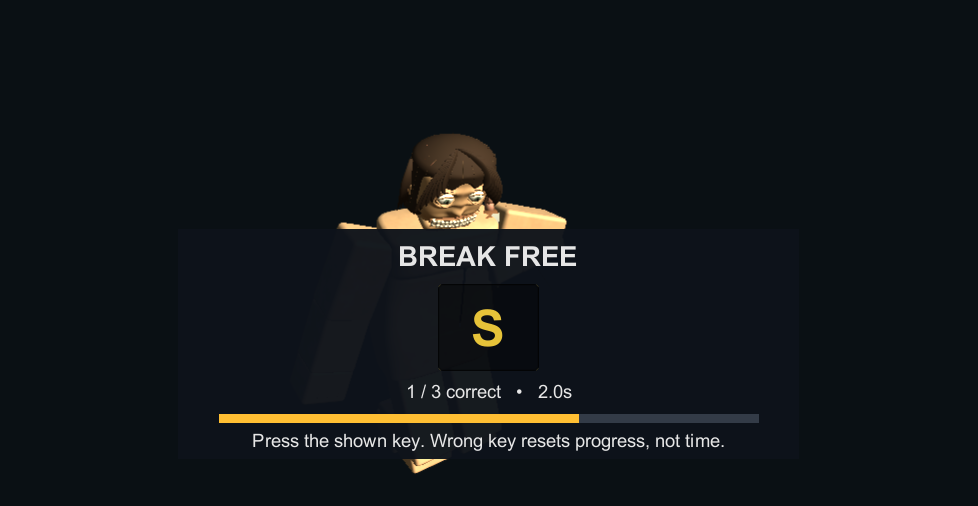
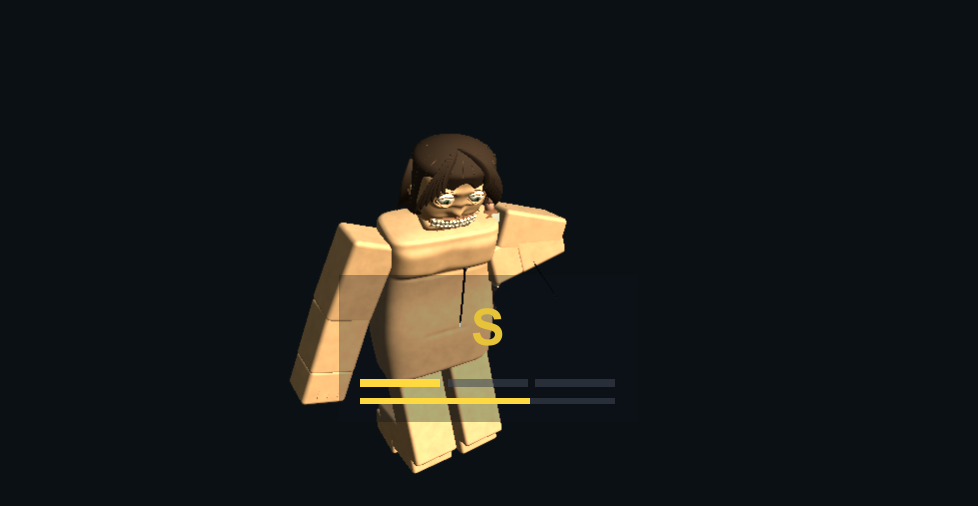
Simplify grab escape HUD to key and progress bars with translucent background

Changed region(s): [[0.2147, 0.4447, 0.7975, 0.919]]

diff --git a/Assets/Titan/Prototype/TitanGrabEscape.cs b/Assets/Titan/Prototype/TitanGrabEscape.cs
@@ -21,7 +21,7 @@ public sealed class TitanGrabEscape : MonoBehaviour
     TitanGrabAttack attacker;
     int previousButtons, blockedButtons, startFrame;
     float age, startedAt, resultAt, wrongAt = -10;
-    GUIStyle titleStyle, keyStyle, textStyle;
+    GUIStyle keyStyle;
     public TitanGrabEscapeState State { get; private set; }
     public int Progress { get; private set; }
     public int WrongPresses { get; private set; }
@@ -107,34 +107,23 @@ public sealed class TitanGrabEscape : MonoBehaviour
     {
         if(!showHud || target.IsDead || State==TitanGrabEscapeState.Idle || State==TitanGrabEscapeState.Cancelled)return;
         if(State!=TitanGrabEscapeState.Running && !target.IsHeld && !target.ReleasePending && Time.time-resultAt>1.2f)return;
-        if(titleStyle==null)
-        {
-            titleStyle=new GUIStyle(GUI.skin.label){fontSize=24,alignment=TextAnchor.MiddleCenter,fontStyle=FontStyle.Bold};
-            keyStyle=new GUIStyle(titleStyle){fontSize=44};textStyle=new GUIStyle(titleStyle){fontSize=16,fontStyle=FontStyle.Normal};
-        }
+        if(keyStyle==null)keyStyle=new GUIStyle(GUI.skin.label){fontSize=44,alignment=TextAnchor.MiddleCenter,fontStyle=FontStyle.Bold};
         var oldMatrix=GUI.matrix;var oldColor=GUI.color;
         float scale=Mathf.Min(1.4f,Mathf.Min(Screen.width/600f,Screen.height/440f));
         GUI.matrix=Matrix4x4.TRS(new Vector3(Screen.width*.5f,Screen.height*.68f,0),Quaternion.identity,Vector3.one*scale);
-        GUI.color=new Color(.05f,.07f,.1f,.96f);GUI.DrawTexture(new Rect(-270,-100,540,200),Texture2D.whiteTexture);
-        GUI.color=Color.white;
-        if(State==TitanGrabEscapeState.Running)
+        GUI.color=new Color(.05f,.07f,.1f,.32f);GUI.DrawTexture(new Rect(-130,-60,260,128),Texture2D.whiteTexture);
+        bool running=State==TitanGrabEscapeState.Running;
+        Color accent=State==TitanGrabEscapeState.Succeeded?new Color(.4f,1,.6f):
+            (!running || Time.time-wrongAt<.35f?new Color(1,.4f,.35f):new Color(1,.85f,.25f));
+        GUI.color=accent;
+        if(running)GUI.Label(new Rect(-40,-50,80,70),CurrentKey.ToString(),keyStyle);
+        for(int i=0;i<RequiredPresses;i++)
         {
-            GUI.Label(new Rect(-260,-94,520,36),"BREAK FREE",titleStyle);
-            GUI.color=Time.time-wrongAt<.35f?new Color(1,.4f,.35f):new Color(1,.85f,.25f);
-            GUI.Box(new Rect(-44,-52,88,76),GUIContent.none);GUI.Label(new Rect(-44,-52,88,76),CurrentKey.ToString(),keyStyle);
-            GUI.color=Color.white;
-            GUI.Label(new Rect(-260,26,520,30),Progress+" / 3 correct   •   "+Remaining.ToString("F1")+"s",textStyle);
-            GUI.color=new Color(.2f,.23f,.28f);GUI.DrawTexture(new Rect(-235,61,470,8),Texture2D.whiteTexture);
-            GUI.color=new Color(1,.75f,.2f);GUI.DrawTexture(new Rect(-235,61,470*Remaining/Window,8),Texture2D.whiteTexture);
-            GUI.color=Color.white;GUI.Label(new Rect(-260,72,520,24),Time.time-wrongAt<.35f?"Wrong key — progress reset!":"Press the shown key. Wrong key resets progress, not time.",textStyle);
+            GUI.color=i<Progress?accent:new Color(.25f,.28f,.33f,.55f);
+            GUI.DrawTexture(new Rect(-112+i*76,30,70,7),Texture2D.whiteTexture);
         }
-        else
-        {
-            bool success=State==TitanGrabEscapeState.Succeeded;
-            GUI.color=success?new Color(.4f,1,.6f):new Color(1,.4f,.35f);
-            GUI.Label(new Rect(-260,-45,520,45),success?"ESCAPED!":"TOO SLOW!",titleStyle);
-            GUI.color=Color.white;GUI.Label(new Rect(-260,3,520,40),success?(target.ReleasePending?"Bite cancelled — waiting for a clear exit…":"Jump away! 1 second of re-grab protection."):"The Titan is bringing you to its mouth…",textStyle);
-        }
+        GUI.color=new Color(.25f,.28f,.33f,.55f);GUI.DrawTexture(new Rect(-112,47,222,5),Texture2D.whiteTexture);
+        GUI.color=accent;GUI.DrawTexture(new Rect(-112,47,222*Remaining/Window,5),Texture2D.whiteTexture);
         GUI.color=oldColor;GUI.matrix=oldMatrix;
     }
 }

diff --git a/Assets/Tests/TitanPrototype/PlayMode/TitanODMIntegrationPlayModeTests.cs b/Assets/Tests/TitanPrototype/PlayMode/TitanODMIntegrationPlayModeTests.cs
@@ -768,7 +768,7 @@ public class TitanODMIntegrationPlayModeTests
         for(int i=0;i<120 && !System.IO.File.Exists(path);i++)yield return null;
         Assert.That(System.IO.File.Exists(path),Is.True,"No actual completed-frame HUD screenshot");
         var image=new Texture2D(2,2);image.LoadImage(System.IO.File.ReadAllBytes(path));
-        Assert.That(image.GetPixels32().Count(c=>(c.r>170 && c.g>150 && c.b<120)||(c.g>170 && c.r<160 && c.b<190)),Is.GreaterThan(20),"Actual gold prompt/progress or green outcome pixels must render");
+        Assert.That(image.GetPixels32().Count(c=>(c.r>170 && c.g>150 && c.b<120)||(c.g>170 && c.r<160 && c.b<190)||(c.r>170 && c.g<140 && c.b<140)),Is.GreaterThan(20),"Actual gold prompt/time, red reset or green progress pixels must render");
         Object.Destroy(image);
     }
     [UnityTest] public IEnumerator ChompCanRenderRealScoutRagdollAndBloodInOwnedGraphicsPreview()

diff --git a/docs/titan-grab-escape.md b/docs/titan-grab-escape.md
@@ -28,9 +28,11 @@ safe jump-away and one-second re-grab protection; explicitly chose **3 seconds**
   Damage/death remain exclusively real PlayerHealth ownership. No delayed kill
   timer, forced death, resurrected HP or post-escape asynchronous bite callback.
 
-HUD: dark high-contrast center-lower panel, large current key, progress count,
-remaining seconds and shrinking gold bar. Wrong-key flash/reset, failure and success
-messages. No cursor capture, root motion, shared GUI skin edits or audio retuning.
+HUD (user-requested minimal revision): only the large current key, three-segment
+progress bar and shrinking time bar. Compact260x128 panel with32% background alpha;
+no headings, instructions, numeric counts/time or outcome text. Wrong-key reset
+flashes red; successful progress flashes green. No cursor capture, root motion,
+shared GUI skin edits or audio retuning.
 QTE movement/Q/E inputs remain quarantined through release until keys come UP,
 so the final success key does not also move/strafe/fire an ODM hook. Fresh gameplay
 inputs work normally after release. Existing F release/repress rule remains.
